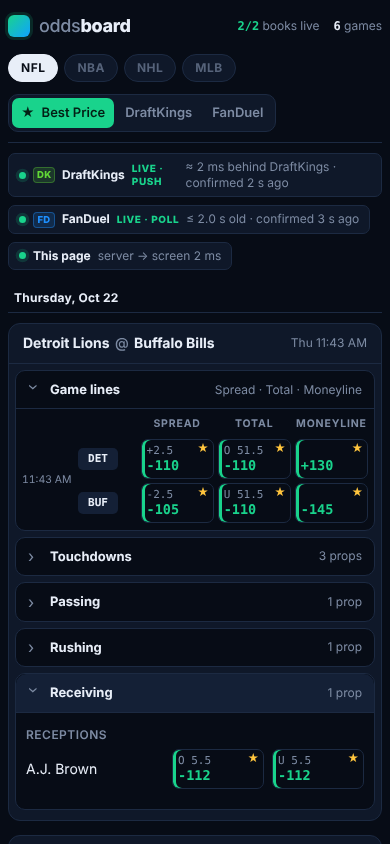
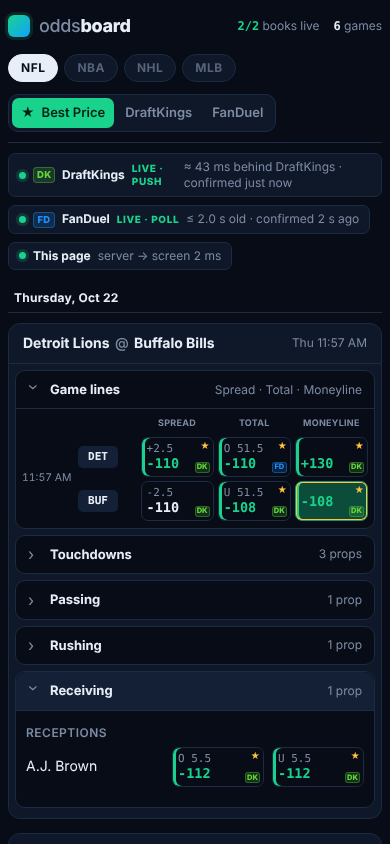
Mobile: keep DK/FD badges visible in price cells, shrunk to fit
Star top-right, mini badge bottom-right, with space reserved per row so prices and
lines never run under them. The move arrow is hidden on phones (the cell still
flashes). Extra step for 320 px screens. Checked at 320, 360 and 390 px while
prices update: no clipping, no overlap, no sideways scroll.

Claude-Session: https://claude.ai/code/session_01YHrtn2sS33TnhX4PdLp2WQ

diff --git a/public/styles.css b/public/styles.css
@@ -149,8 +149,13 @@ body { max-width: 1320px; margin: 0 auto; padding: 0 16px 20px; }
   .cell .was { display: none; }
   .team .abbr { min-width: 40px; }
   .cell { padding: 0 5px; grid-template-columns: 1fr; }
-  .cell .side { position: absolute; top: 3px; right: 4px; flex-direction: row; }
-  .cell .badge { display: none; }
+  /* Book badge stays visible on phones, shrunk: star top-right, mini DK/FD bottom-right. */
+  .cell .side { position: absolute; top: 3px; right: 3px; bottom: 3px; flex-direction: column; justify-content: flex-start; align-items: flex-end; gap: 0; }
+  .cell .star { font-size: 9px; }
+  .cell .badge { display: inline-grid; margin-top: auto; min-width: 15px; height: 11px; padding: 0 2px; border-radius: 3px; font-size: 7.5px; letter-spacing: 0; }
+  .cell .ln { padding-right: 9px; }
+  .cell .px { padding-right: 17px; }
+  .cell .arrow { display: none; } /* the cell's green/red flash still shows the move */
   .cell.best .side::before { content: ''; }
   .toggle button { padding: 6px 9px; }
   .toggle .badge { display: none; }
@@ -201,8 +206,16 @@ body { max-width: 1320px; margin: 0 auto; padding: 0 16px 20px; }
 .lines-head span { text-align: center; }
 .daybar { grid-template-columns: 1fr; }
 @media (max-width: 640px) {
-  .lines-head { grid-template-columns: 52px minmax(54px, 0.8fr) repeat(3, minmax(0, 1fr)); column-gap: 4px; padding-left: 6px; padding-right: 6px; }
+  .lines-head { grid-template-columns: 52px minmax(54px, 0.8fr) repeat(3, minmax(0, 1fr)); column-gap: 4px; padding-left: 6px; padding-right: 6px; font-size: 9px; letter-spacing: .03em; }
   .box { margin: 6px; }
   .prop-row.ou { grid-template-columns: minmax(0, 1fr) 92px 92px; }
   .prop-stat:has(.prop-row.ou) .prop-list, .prop-list { grid-template-columns: minmax(0, 1fr); }
+}
+@media (max-width: 359px) {
+  .daybar, .game, .lines-head { grid-template-columns: 40px minmax(44px, 0.7fr) repeat(3, minmax(0, 1fr)); column-gap: 3px; }
+  .team .abbr { min-width: 34px; }
+  .cell { padding: 0 3px; }
+  .cell .px { font-size: 12px; padding-right: 15px; }
+  .cell .ln { font-size: 10px; padding-right: 8px; }
+  .prop-row.ou { grid-template-columns: minmax(0, 1fr) 84px 84px; }
 }
